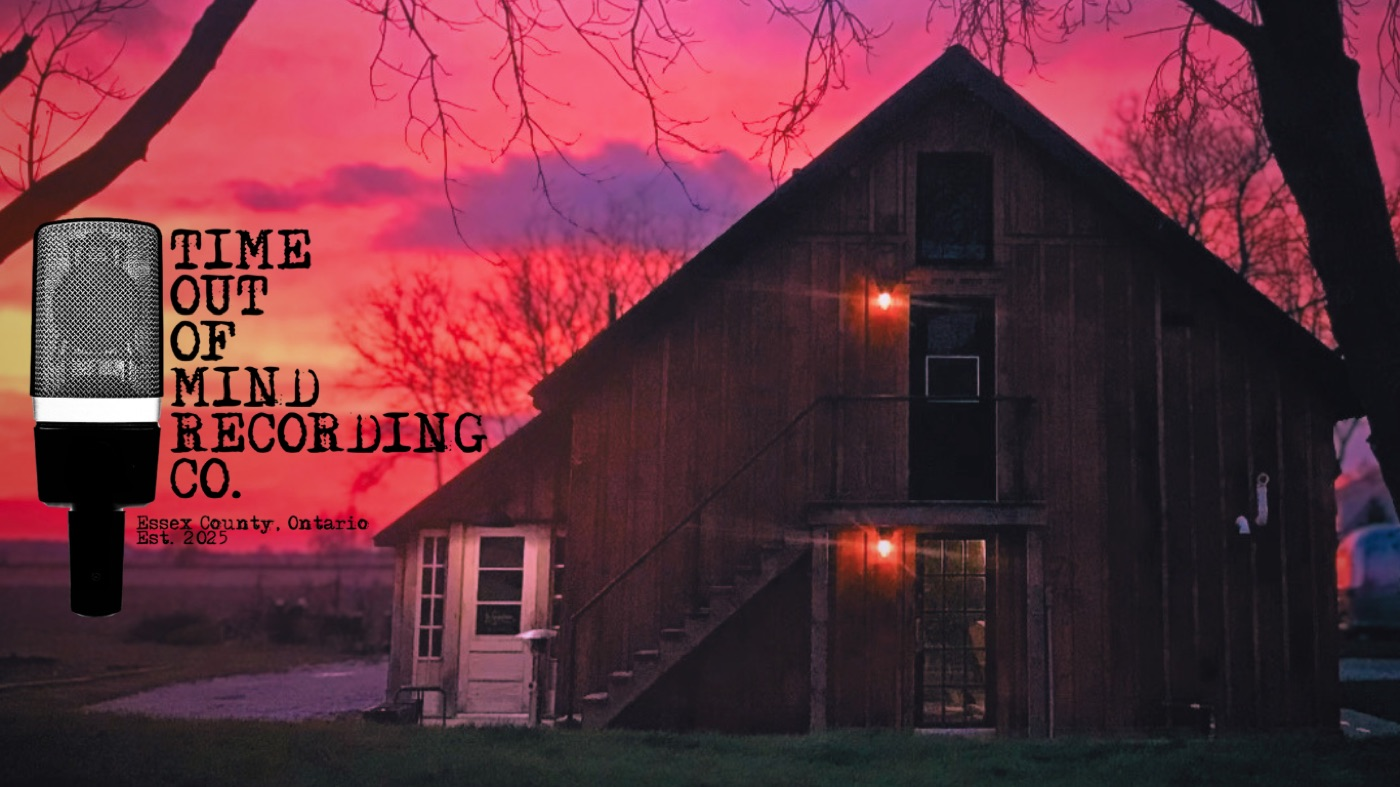
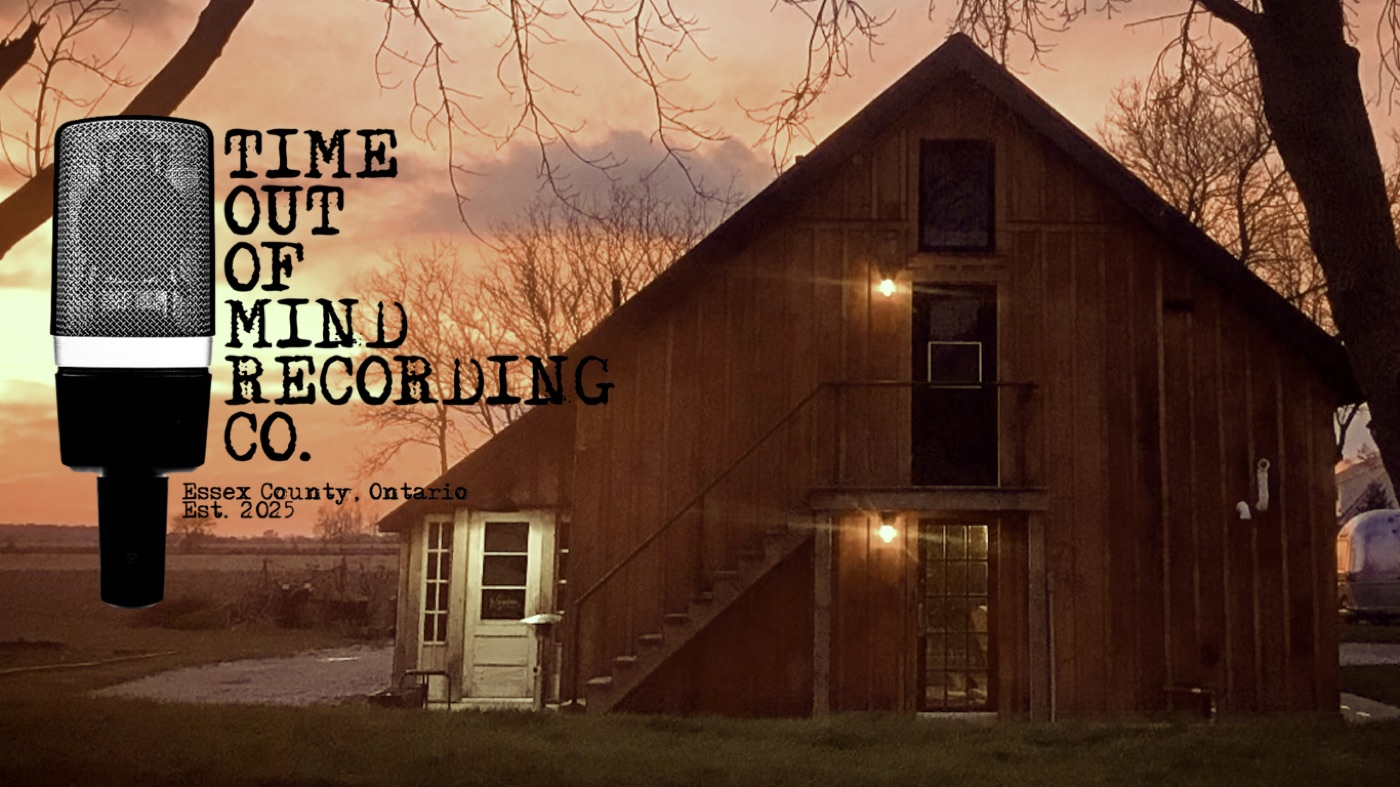
New hero image, bold email sub-headers, fix mailto body parsing
- Swap hero for new barn-at-sunset composite with mic and logo
- Email address now bold sub-header in intro and contact sections
- Fix mailto links: use &amp; in HTML attributes so browser correctly
  parses subject and body as separate URL parameters
- Encode parentheses in mailto body text

diff --git a/index.html b/index.html
@@ -62,7 +62,9 @@
     <div class="container intro-body reveal">
       <p>This space is located in a 100-year old barn in the beautiful countryside of Essex County, Ontario. 2500 sq. feet are yours to realize whatever creative vision you may have. There is a massive live room perfect for recording drums, guitars, or anything else. There is a vintage Allen &amp; Heath ML4000 console. There is natural light and limitless beauty. There is no end to what can happen here, be it recording, rehearsals, demoing, pre-production, video shoots, audiobooks, and anything else involving music or speech sounding great in a listener's ears.</p>
       <p>The experience has its own perks as well. There are accommodations on site. There is a farmhouse. There is a hot tub and a firepit. There is a coffee roastery. There is a collective love of pets and a fenced-in yard. There is the magnificent, open land of Essex County. There is a heartbreaking sunset every evening. There is a studio staff full of creative ideas motivated by the undying love of recorded music. There is an amazing arts community of which we are a part. There is a communal copy of <em>Our Band Could Be Your Life</em>. There is a greenhouse. And most importantly: there is time.</p>
-      <a href="mailto:timeoutofmindrecordingco@gmail.com" class="cta-link">timeoutofmindrecordingco@gmail.com</a>
+    </div>
+    <div class="container">
+      <p class="email-standout"><a href="mailto:timeoutofmindrecordingco@gmail.com">timeoutofmindrecordingco@gmail.com</a></p>
     </div>
   </section>
 
@@ -176,7 +178,7 @@
             <li>Accommodations for two in the upstairs loft</li>
             <li>Loud tracking wrapped by 10:00pm</li>
           </ul>
-          <a href="mailto:timeoutofmindrecordingco@gmail.com?subject=Booking%20Inquiry%20-%20%24800%2Fday%20Package&body=Hi%20TOOMRC%2C%0D%0A%0D%0AI%27m%20interested%20in%20the%20%24800%2Fday%20package%20(studio%20access%20%2B%20loft%20accommodations).%0D%0A%0D%0ABand%2FArtist%20name%3A%0D%0APreferred%20dates%3A%0D%0AProject%20details%3A%0D%0A%0D%0AThanks!" class="rate-cta">Book this package &rarr;</a>
+          <a href="mailto:timeoutofmindrecordingco@gmail.com?subject=Booking%20Inquiry%20-%20%24800%2Fday%20Package&amp;body=Hi%20TOOMRC%2C%0D%0A%0D%0AI%27m%20interested%20in%20the%20%24800%2Fday%20package%20%28studio%20access%20%2B%20loft%20accommodations%29.%0D%0A%0D%0ABand%2FArtist%20name%3A%0D%0APreferred%20dates%3A%0D%0AProject%20details%3A%0D%0A%0D%0AThanks!" class="rate-cta">Book this package &rarr;</a>
         </div>
 
         <div class="rate-tier reveal">
@@ -188,7 +190,7 @@
             <li>Accommodations for eight in the farmhouse</li>
             <li>No sound curfew</li>
           </ul>
-          <a href="mailto:timeoutofmindrecordingco@gmail.com?subject=Booking%20Inquiry%20-%20%241%2C100%2Fday%20Package&body=Hi%20TOOMRC%2C%0D%0A%0D%0AI%27m%20interested%20in%20the%20%241%2C100%2Fday%20package%20(farmhouse%20%2B%20no%20curfew).%0D%0A%0D%0ABand%2FArtist%20name%3A%0D%0APreferred%20dates%3A%0D%0AProject%20details%3A%0D%0A%0D%0AThanks!" class="rate-cta">Book this package &rarr;</a>
+          <a href="mailto:timeoutofmindrecordingco@gmail.com?subject=Booking%20Inquiry%20-%20%241%2C100%2Fday%20Package&amp;body=Hi%20TOOMRC%2C%0D%0A%0D%0AI%27m%20interested%20in%20the%20%241%2C100%2Fday%20package%20%28farmhouse%20%2B%20no%20curfew%29.%0D%0A%0D%0ABand%2FArtist%20name%3A%0D%0APreferred%20dates%3A%0D%0AProject%20details%3A%0D%0A%0D%0AThanks!" class="rate-cta">Book this package &rarr;</a>
         </div>
 
         <div class="rate-tier reveal">
@@ -199,7 +201,7 @@
           <ul class="rate-details">
             <li>Hospitality: groceries and soft drinks</li>
           </ul>
-          <a href="mailto:timeoutofmindrecordingco@gmail.com?subject=Booking%20Inquiry%20-%20%241%2C300%2Fday%20Package&body=Hi%20TOOMRC%2C%0D%0A%0D%0AI%27m%20interested%20in%20the%20%241%2C300%2Fday%20package%20(farmhouse%20%2B%20hospitality).%0D%0A%0D%0ABand%2FArtist%20name%3A%0D%0APreferred%20dates%3A%0D%0AProject%20details%3A%0D%0ADietary%20needs%2Frestrictions%3A%0D%0A%0D%0AThanks!" class="rate-cta">Book this package &rarr;</a>
+          <a href="mailto:timeoutofmindrecordingco@gmail.com?subject=Booking%20Inquiry%20-%20%241%2C300%2Fday%20Package&amp;body=Hi%20TOOMRC%2C%0D%0A%0D%0AI%27m%20interested%20in%20the%20%241%2C300%2Fday%20package%20%28farmhouse%20%2B%20hospitality%29.%0D%0A%0D%0ABand%2FArtist%20name%3A%0D%0APreferred%20dates%3A%0D%0AProject%20details%3A%0D%0ADietary%20needs%2Frestrictions%3A%0D%0A%0D%0AThanks!" class="rate-cta">Book this package &rarr;</a>
         </div>
 
         <div class="rate-tier reveal">
@@ -210,7 +212,7 @@
           <ul class="rate-details">
             <li>A personalized bar</li>
           </ul>
-          <a href="mailto:timeoutofmindrecordingco@gmail.com?subject=Booking%20Inquiry%20-%20%241%2C500%2Fday%20Package&body=Hi%20TOOMRC%2C%0D%0A%0D%0AI%27m%20interested%20in%20the%20%241%2C500%2Fday%20full%20package%20(farmhouse%20%2B%20hospitality%20%2B%20personalized%20bar).%0D%0A%0D%0ABand%2FArtist%20name%3A%0D%0APreferred%20dates%3A%0D%0AProject%20details%3A%0D%0ADietary%20needs%2Frestrictions%3A%0D%0ABar%20preferences%3A%0D%0A%0D%0AThanks!" class="rate-cta">Book this package &rarr;</a>
+          <a href="mailto:timeoutofmindrecordingco@gmail.com?subject=Booking%20Inquiry%20-%20%241%2C500%2Fday%20Package&amp;body=Hi%20TOOMRC%2C%0D%0A%0D%0AI%27m%20interested%20in%20the%20%241%2C500%2Fday%20full%20package%20%28farmhouse%20%2B%20hospitality%20%2B%20personalized%20bar%29.%0D%0A%0D%0ABand%2FArtist%20name%3A%0D%0APreferred%20dates%3A%0D%0AProject%20details%3A%0D%0ADietary%20needs%2Frestrictions%3A%0D%0ABar%20preferences%3A%0D%0A%0D%0AThanks!" class="rate-cta">Book this package &rarr;</a>
         </div>
       </div>
 
@@ -356,7 +358,7 @@
       <div class="contact-grid reveal">
         <div class="contact-info">
           <p class="contact-address">14451 Concession Road 14<br>Essex, Ontario</p>
-          <p><a href="mailto:timeoutofmindrecordingco@gmail.com" class="cta-link">timeoutofmindrecordingco@gmail.com</a></p>
+          <p class="email-standout"><a href="mailto:timeoutofmindrecordingco@gmail.com">timeoutofmindrecordingco@gmail.com</a></p>
           <p class="contact-note">A partnership with <strong>14th Coffee Co.</strong></p>
         </div>
         <div class="contact-map" id="map"></div>

diff --git a/css/style.css b/css/style.css
@@ -777,6 +777,29 @@ h2, h3, .nav-logo {
   color: var(--ash);
 }
 
+.email-standout {
+  margin-top: clamp(24px, 3vw, 40px);
+  margin-bottom: 8px;
+  column-span: all;
+}
+
+.email-standout a {
+  font-family: 'Special Elite', monospace;
+  font-size: clamp(1.1rem, 2.2vw, 1.5rem);
+  color: var(--amber);
+  font-weight: 700;
+  letter-spacing: 0.01em;
+  text-decoration: none;
+  border-bottom: 2px solid var(--amber);
+  padding-bottom: 3px;
+  transition: color 0.3s, border-color 0.3s;
+}
+
+.email-standout a:hover {
+  color: var(--sunset-coral);
+  border-color: var(--sunset-coral);
+}
+
 .cta-link {
   font-family: 'Courier Prime', monospace;
   color: var(--amber);
